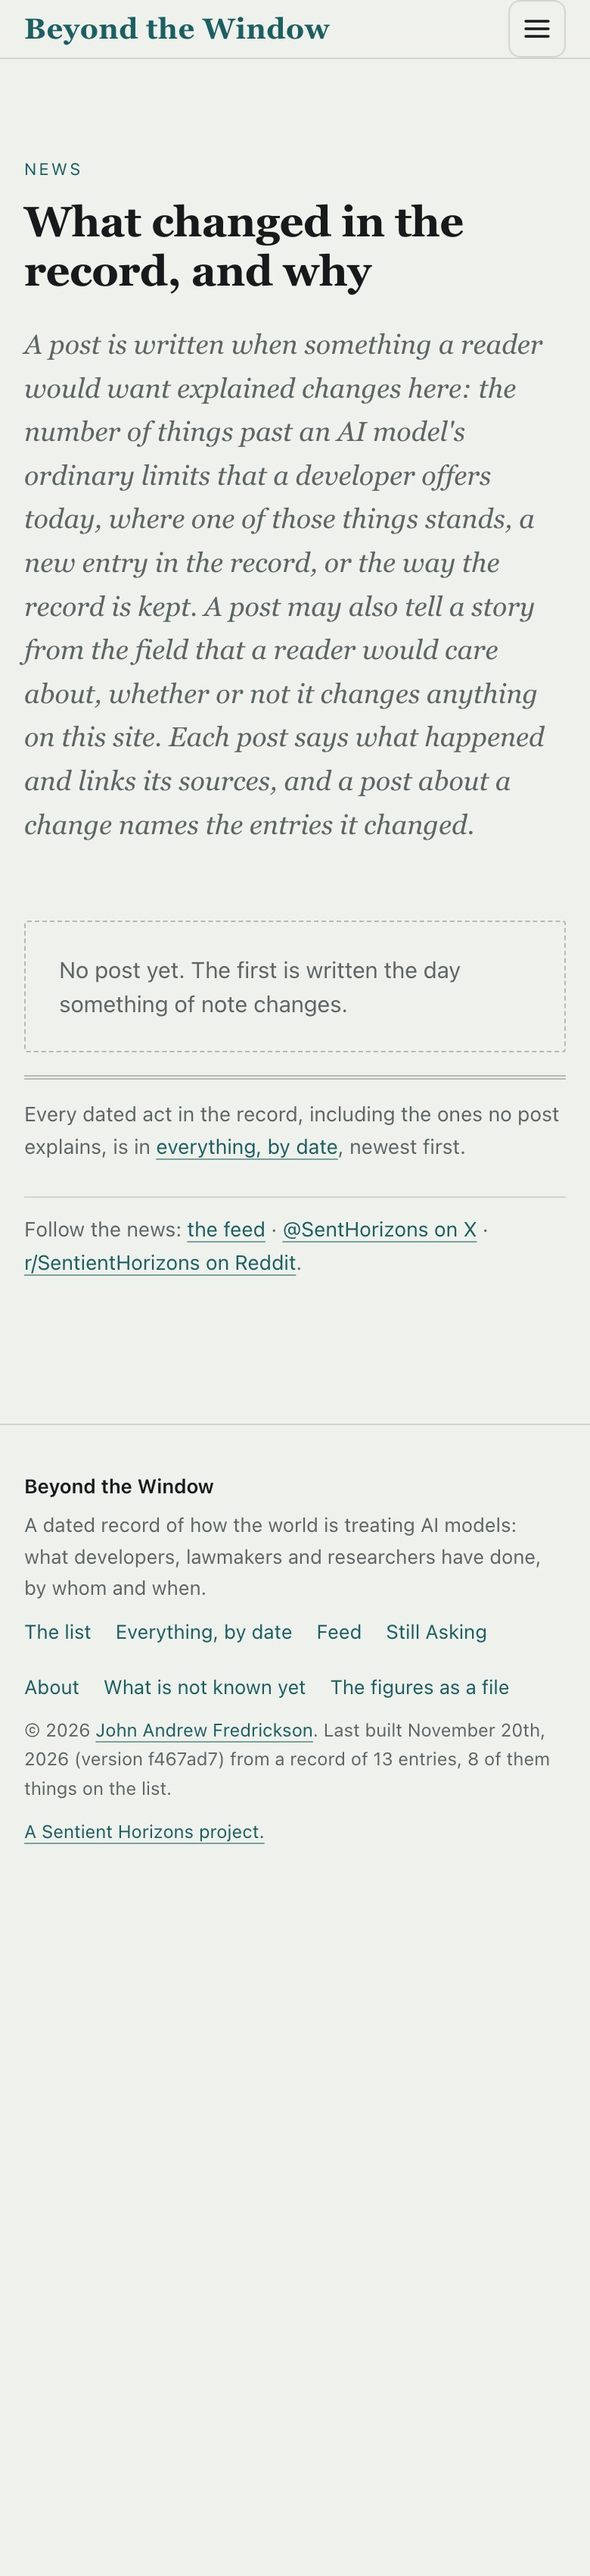
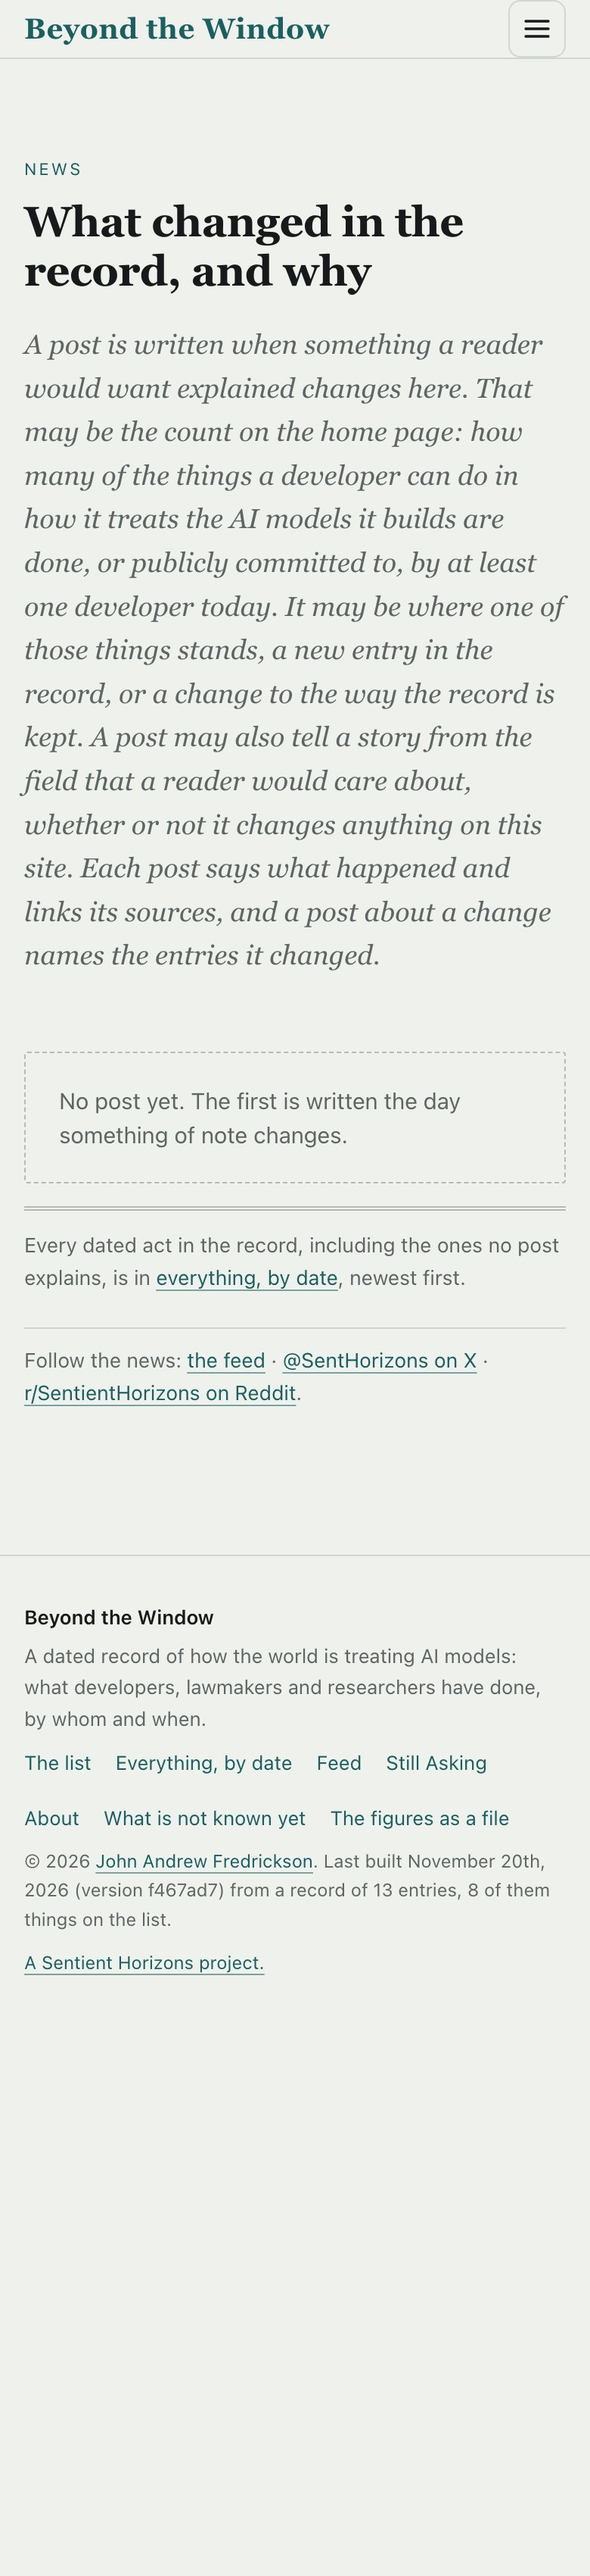
News section after its second check: the strict rule on unchecked facts proposed, and the count named in the home page's words
Question 6 now gives the AGI Zeitgeist's strict rule, as John ruled it, as the precedent, and
proposes it for this site, kept in code by the news check, with a proposal for entries whose
changes a second check has not covered. The proposal again notes that the written rule asks for a
footer link to X that no sibling has. The News page's opening paragraph describes the count in the
home page's own words, in three sentences.

diff --git a/docs/proposals/2026-11-21-news-section.md b/docs/proposals/2026-11-21-news-section.md
@@ -104,7 +104,10 @@ drawing script (`scripts/social-image.mjs --posts`) and its commit hook is work 
 first post (part 4).
 
 **D. The "Follow the news" line** (old choice 10). Built as every sibling has it, on the News page
-and under each post: the feed, @SentHorizons on X, r/SentientHorizons on Reddit.
+and under each post: the feed, @SentHorizons on X, r/SentientHorizons on Reddit. One gap is not
+settled: rule 4.15 also asks for a quiet "Follow on X" link in every tracker's footer, and no
+sibling's footer has one on its main branch, so the written rule and the family's practice differ.
+This site follows the practice for now and adds no footer link.
 
 **E. Made-up posts for drawing the pages, and the guard against publishing one** (old choice 11).
 Built. It follows this project's rule that nothing made up is written without "constructed"
@@ -253,28 +256,48 @@ that a post explains one.
 
 ### Question 6. How the family's rule on unchecked facts applies here
 
-(Old choice 12, its last part, restated.) The family's rule is wider than the first version said:
-"no post is published while any record on the site carries an open verify entry" (rule 4.11,
-pointing at rule 3.3 part 4), and this site's inventory takes it over as is (row L4). Two readings
-are possible here, because this site already keeps every record with something left to verify off
-the site entirely (`scripts/compute.py` shows only records with nothing to verify), and the news
-check refuses a post that names an entry the site does not show.
+(Old choice 12, its last part. Restated after the second check, review item M4: the earlier
+version called the loose reading the AGI Zeitgeist's, which had it the wrong way round.)
 
-- *Reading one, the strict one:* no post goes out while any record, shown or not, has anything left
-  to verify. On 2026-11-21 no record is waiting (the headline file counts none left out with
-  facts to verify), so the two readings agree today; they part the day a record is added with a
-  fact still to check, which would then hold every post until it is checked or dropped.
-- *Reading two, the Zeitgeist's:* the rule is about the records the site shows. Here those can
-  never carry an open fact, so the rule is already kept in code for every record; what is left is
-  that no fact in the post itself may be unchecked, which the writing session and the reading
-  against `docs/verify-list.md` hold by hand.
+**The rule.** "No post is published while any record on the site carries an open verify entry"
+(rule 4.11, pointing at rule 3.3 part 4, ruled by John on 2026-10-17). This site's inventory takes
+it over as is (row L4). An open verify entry is a fact set down before its source was opened.
 
-*Proposed:* reading two, because the site already shows no record with an open fact, and reading
-one would hold every post on records no reader can see.
-*Confidence:* moderate. *Judgment call* on how a family rule meets this site's stricter way of
-holding records back.
-*Strongest alternative:* reading one. Cost: whenever a record waits off the site, news waits on
-it, though no reader can see it.
+**The precedent is the strict one, and it is John's.** The AGI Zeitgeist's news check refuses
+every post while any claim file on that site carries an open verify line: in its own words, "the
+count across the site must be none", and "The rule is kept strict". It was added on John's ruling
+of 2026-11-09, after posts went out on 2026-10-19 and 2026-10-21 while ten checks were open
+(agi-zeitgeist, `scripts/check_news.py`; this site's inventory, part 2, lesson 9).
+
+**Why there are two readings here.** This site already keeps every record with a fact still to
+verify off the site entirely (`scripts/compute.py` shows only records with nothing to verify), so
+no record a reader can see ever carries an open entry.
+
+- *Reading one, the strict one, as on the Zeitgeist:* no post goes out while any record, shown or
+  held back, has a fact still to verify. It can be kept in code at once: the news check refuses
+  every post while the headline file's count of records left out with facts to verify is above
+  none. On 2026-11-21 that count is none, so the reading costs nothing today.
+- *Reading two, the loose one:* the rule is about the records a reader can see, which here can
+  never carry an open entry, so it is kept already; what is left is that no fact in the post
+  itself is unchecked, which the writing session holds by hand against `docs/verify-list.md`.
+
+**A third thing the rule does not settle.** Three entries today carry `some_unchecked` in their
+record of checks: changes were made after a second check, and that check did not cover all of
+them. Those are not facts set down before their source was opened, so they are not open verify
+entries in the rule's sense. They are facts not yet checked a second time.
+
+*Proposed:* reading one, kept in code by the news check as above, because it is the family's rule
+as John ruled it for the Zeitgeist, it costs nothing today, and it puts a guard in code where the
+loose reading puts one in a person's hands. On `some_unchecked`: it does not block posts across
+the site, but the news check refuses a post that names an entry carrying it, until the second
+check covers its changes, because a post sends readers to exactly that entry.
+*Confidence:* high on reading one, which follows John's own ruling; moderate on the treatment of
+`some_unchecked`, which is a judgment the rule does not cover.
+*Standard practice* for reading one (the Zeitgeist, 2026-11-09); a judgment for `some_unchecked`.
+*Strongest alternative:* reading two, with `some_unchecked` not counted. Cost: no guard in code;
+the day a record is held back with a fact to check, a post could go out, which is what happened
+on the Zeitgeist on 2026-10-19 and 2026-10-21. A second alternative, counting `some_unchecked`
+site-wide, would block every post today, for three entries no post need name.
 
 ## 4. To do before the first post, whatever is ruled
 
@@ -288,6 +311,7 @@ These need no ruling now; they are the work that should land before the opening 
    rule is that guards live in code once there is code. A short list of phrases, like rule 10's,
    is the likely first form.
 3. If question 5 is ruled as proposed, the "In the news" line and the act links.
+4. If question 6 is ruled as proposed, the two refusals in the news check.
 
 ## 5. What the build changed
 
@@ -309,6 +333,6 @@ These need no ruling now; they are the work that should land before the opening 
 - `scripts/fixtures/news/`: three made-up posts, each marked constructed, and a note on using them.
 - Pictures of the pages at phone and computer widths:
   `docs/proposals/pictures/2026-11-21-news-section/` (1 to 7 with the made-up posts; 8 and 9 the
-  News page as it would go live today, with no post). Pictures 8 and 9 were taken again after the
-check, with the News page's reworded opening paragraph (review item S3); pictures 1 to 3 still
+  News page as it would go live today, with no post). Pictures 8 and 9 were taken again after each
+check, with the News page's reworded opening paragraph (review items S3 and S5); pictures 1 to 3 still
 show the first wording, which is otherwise the same page.
